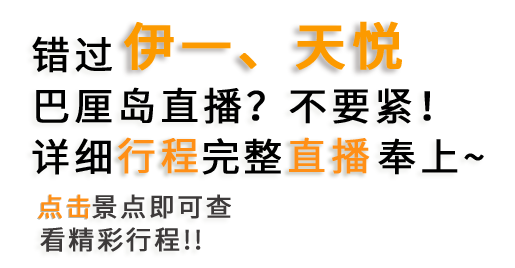
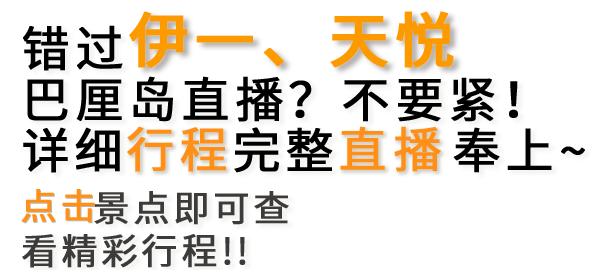
flag

diff --git a/public/stylesheets/style.css b/public/stylesheets/style.css
@@ -23,7 +23,7 @@ html,body{
   position: absolute;
   top:20px;
   left: 28px;
-  width: 50%;
+  width: 60%;
 }
 .bg-img-gif{
   position: absolute;
